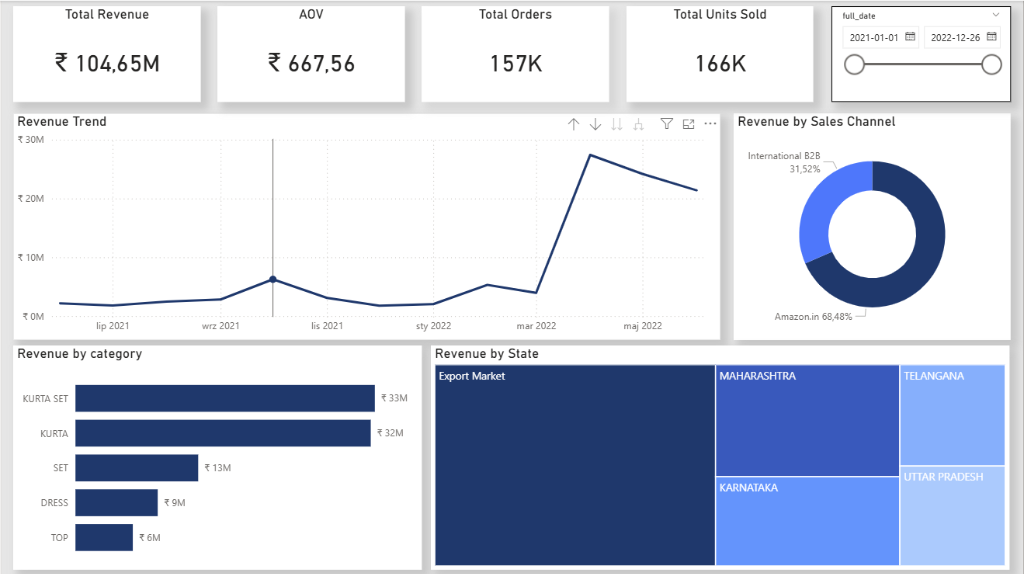
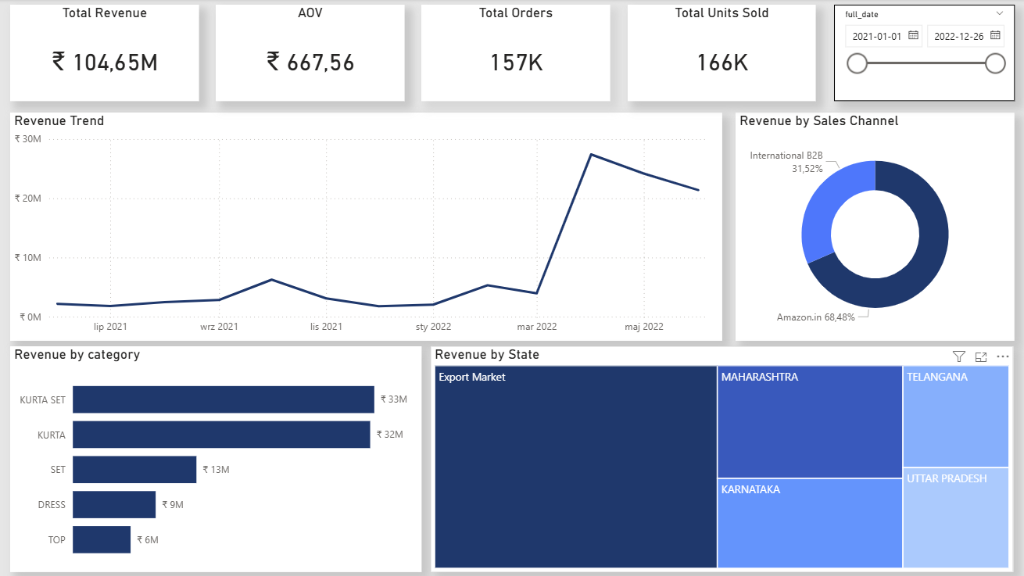
chore: remove unnecessary tests and docs folders, update executive dashboard image

diff --git a/BUSINESS_CONCLUSIONS.md b/BUSINESS_CONCLUSIONS.md
@@ -1,0 +1,25 @@
+# Business Case & Actionable Insights
+
+## 1. Business Problem & Goal
+
+The Challenge:
+The company was operating in a highly fragmented data landscape. Sales data from Amazon (B2C) and international wholesale (B2B) were stored in disjointed CSV files. The lack of a centralized Single Source of Truth made it impossible to accurately track overall revenue, monitor fulfillment cancellation rates, or identify bloated inventory (frozen capital).
+
+The Goal:
+To design and build an automated Data Warehouse and Business Intelligence reporting suite that unifies global sales channels, cleanses the data, and provides decision-makers with Actionable Insights to drive revenue growth, reduce logistics losses, and optimize warehouse space.
+
+## 2. What We Achieved
+
+We successfully engineered a full-stack data platform and delivered three business dashboards in Power BI:
+
+- Executive Summary: High-level view of growth, net revenue, and category performance.
+- Operations and Fulfillment: Deep-dive into logistics, specifically tracking Lost Revenue due to order cancellations and returns.
+- Inventory Health: A highly actionable dashboard identifying Top 10 Dead Stock SKUs for marketing clearance, and High-Risk Fast Movers for immediate procurement.
+
+## 3. Business Conclusions & Value
+
+By deploying this platform, the business can now draw the following immediate conclusions and take action:
+
+- Inventory Optimization: By replacing scattered Excel sheets with the Inventory Health Dashboard, category managers can instantly identify which products are tying up capital (Dead Stock) and liquidate them, while preventing stockouts of best-sellers.
+- Logistics Accountability: The explicit tracking of cancelled amounts in the Fact table allows the operations team to pinpoint exactly which product categories or regions suffer the highest cancellation/return rates, enabling root-cause analysis.
+- Strategic Omnichannel View: Executives can finally compare B2B (Wholesale) and B2C (Amazon) margins and sales volumes side-by-side in a unified data model, enabling better budget allocation.
